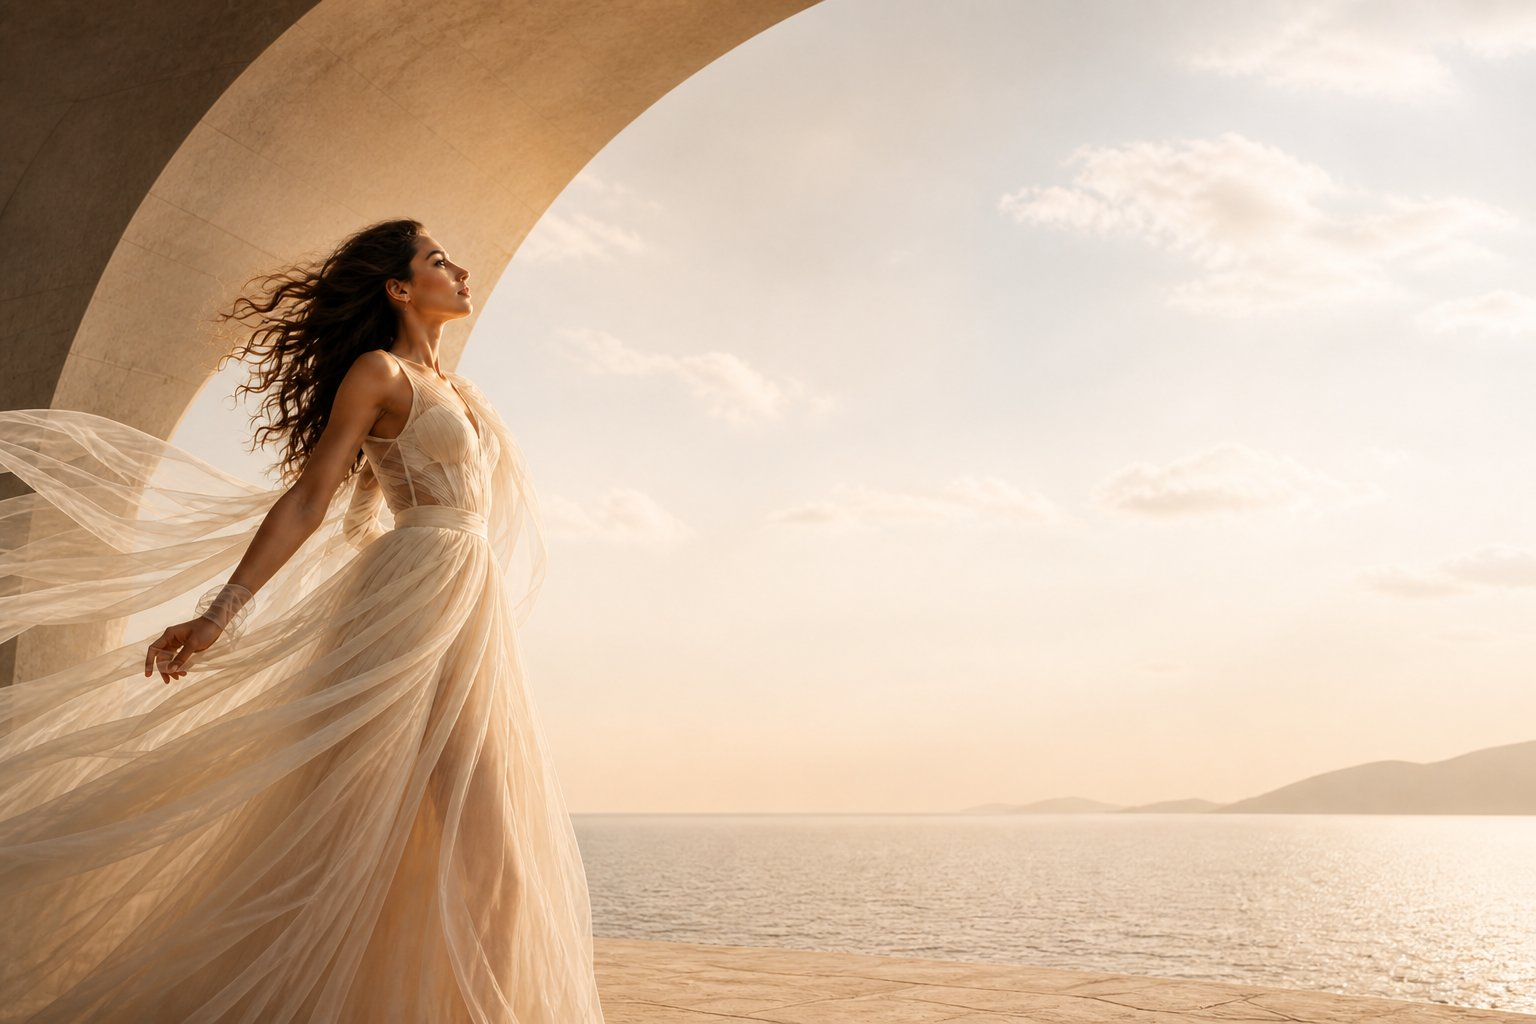
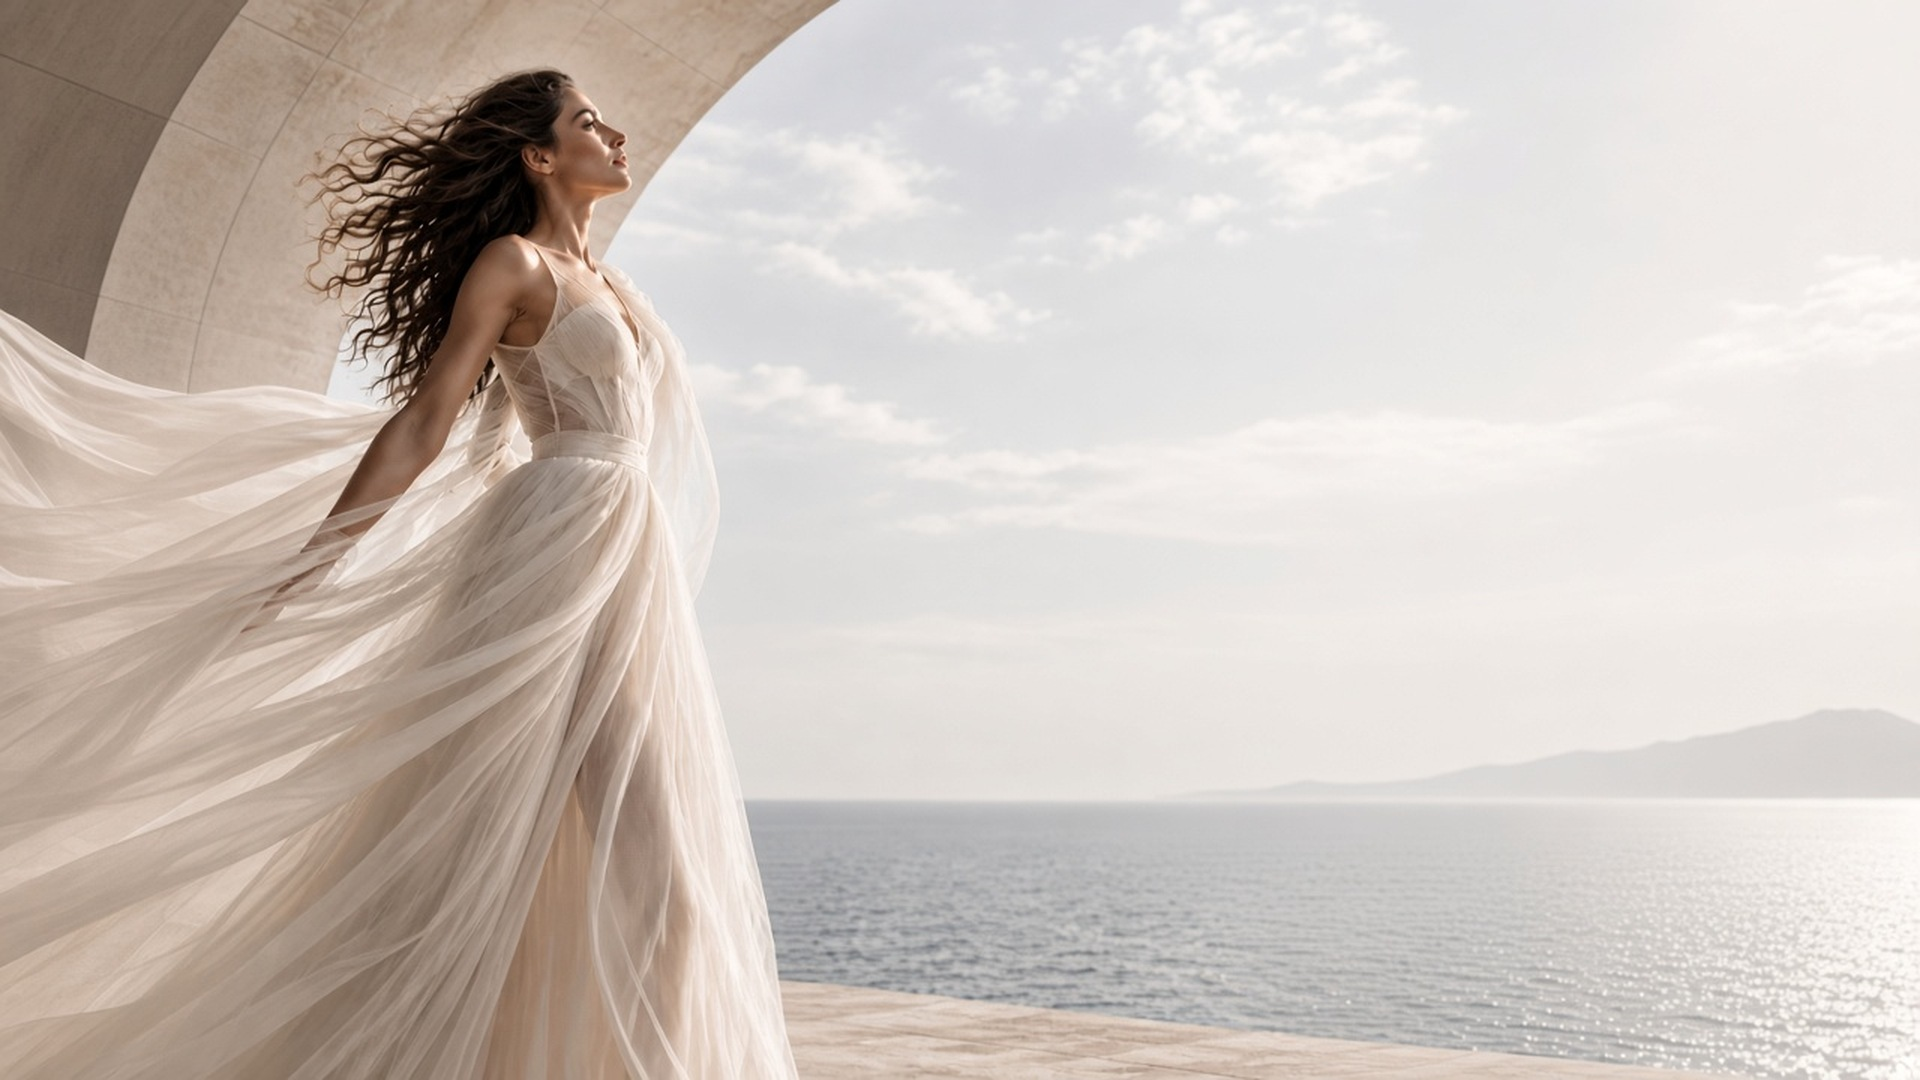
изменение первого блока

diff --git a/css/styles.css b/css/styles.css
@@ -185,7 +185,7 @@ body.nav-open{overflow:hidden;}
   width:100%;
   height:100%;
   object-fit:cover;
-  object-position:18% 42%;
+  object-position:32% 45%;
 }
 .hero-photo .hero-base{
   animation:heroDrift 14s ease-in-out infinite;
